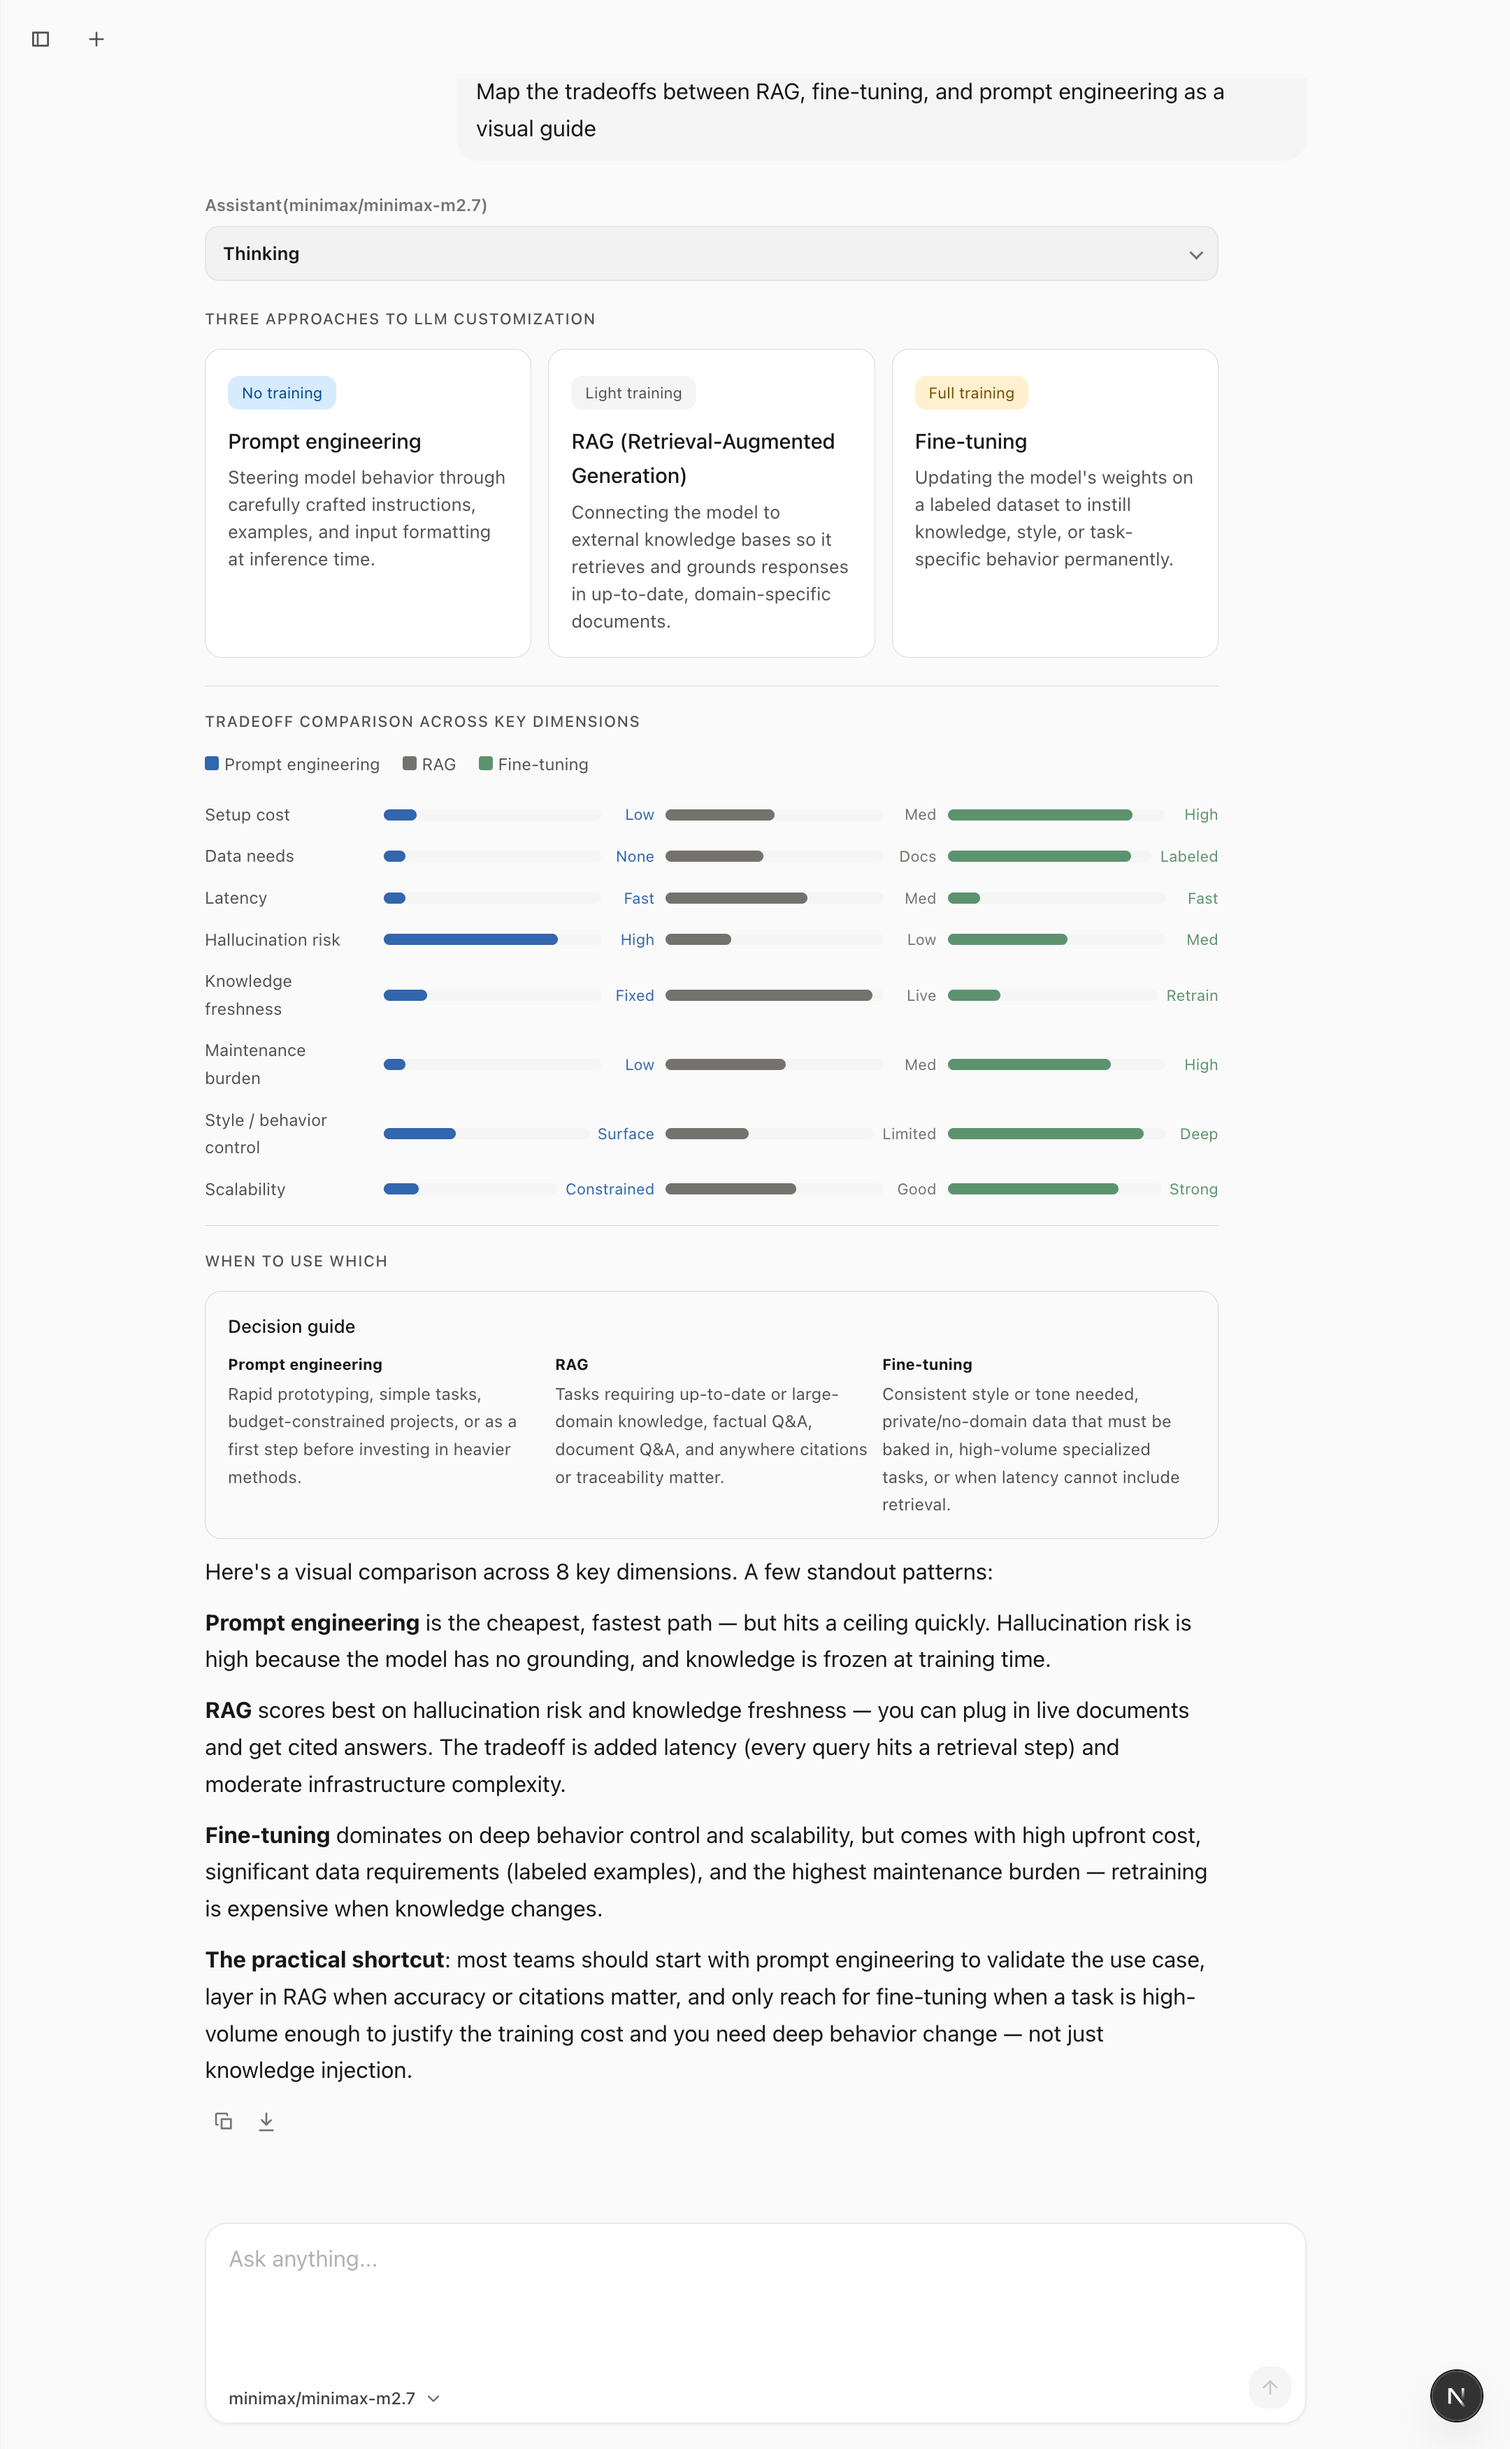
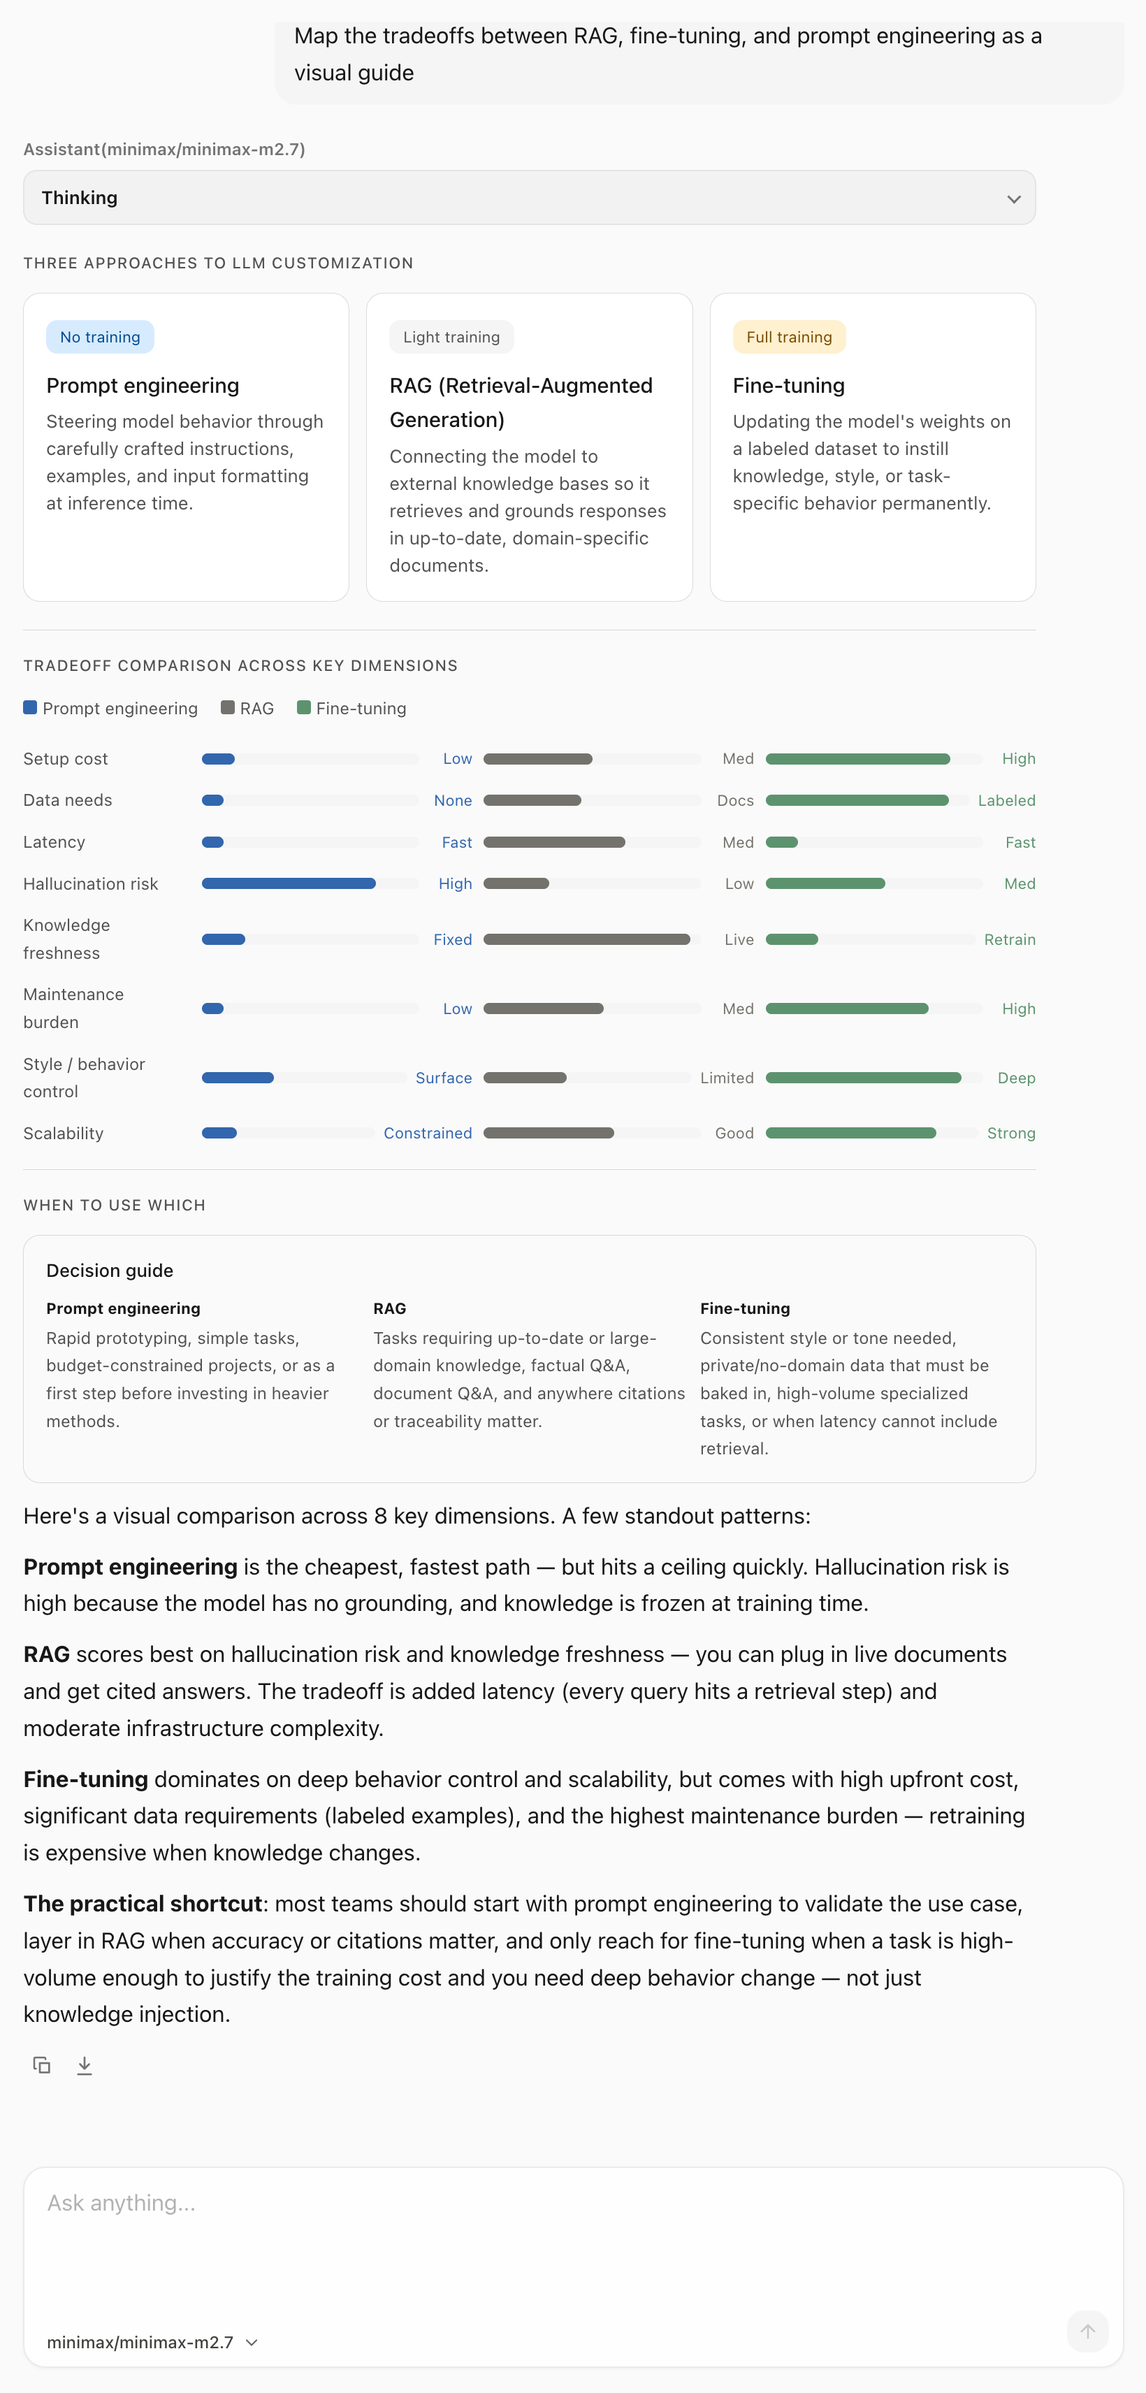
Tighten README gallery assets

diff --git a/docs/histories/2026-05/20260515-1848-tighten-readme-gallery-assets.md b/docs/histories/2026-05/20260515-1848-tighten-readme-gallery-assets.md
@@ -1,0 +1,31 @@
+## [2026-05-15 18:48] | Task: Tighten README gallery assets
+
+### Execution Context
+
+- Agent ID: `Codex`
+- Base Model: `GPT-5`
+- Runtime: `Codex desktop`
+
+### User Query
+
+> Crop the README gallery screenshots so the visible content is tighter and the side whitespace is removed.
+
+### Changes Overview
+
+- Area: README media assets.
+- Key actions:
+  - Cropped the six tracked gallery screenshots to remove the left app chrome, excessive side whitespace, and a small top chrome band.
+  - Preserved the conversation and generated UI content inside each screenshot without changing README markup.
+
+### Design Intent
+
+The README gallery uses a two-column HTML table, so wide screenshots with large side margins make the actual generated UI content look too small. The crop keeps the same examples and captions while making the rendered content denser in the available column width.
+
+### Files Modified
+
+- `docs/readme-assets/ai-news.png`
+- `docs/readme-assets/chart.png`
+- `docs/readme-assets/nba.png`
+- `docs/readme-assets/rag-tradeoffs.png`
+- `docs/readme-assets/roadmap.png`
+- `docs/readme-assets/svg.png`
